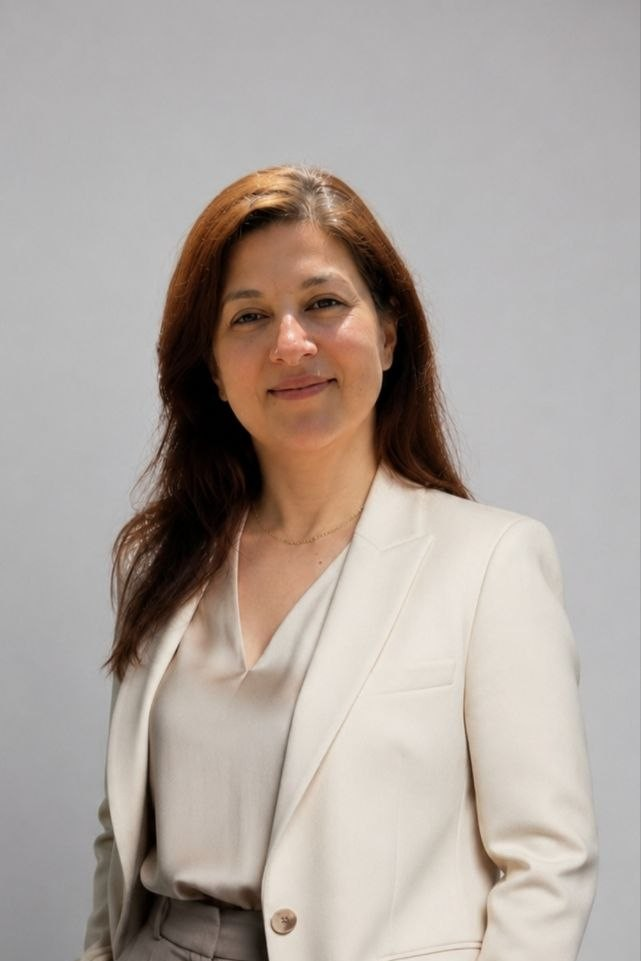
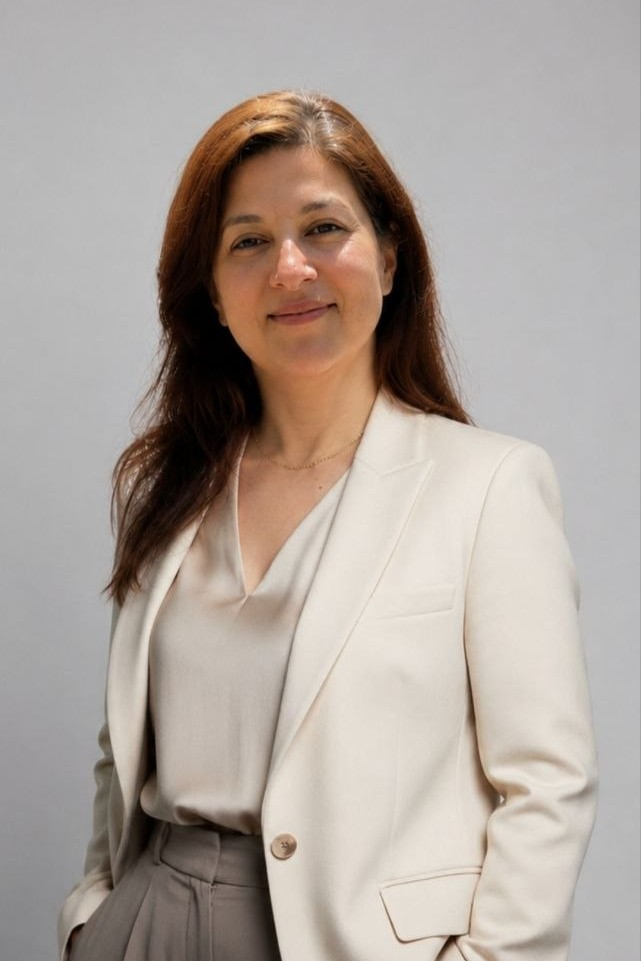
Fix SVG box sizing for residual income label and recrop hero photo

diff --git a/app/components/DeuxModeles.tsx b/app/components/DeuxModeles.tsx
@@ -73,10 +73,10 @@ export default function DeuxModeles({ t }: DeuxModelesProps) {
 
             <line x1="698" y1="173" x2="720" y2="173" stroke="#0F5C4A" strokeWidth="2" markerEnd="url(#arrE)"/>
 
-            <rect x="724" y="112" width="100" height="64" rx="3" fill="#0F5C4A"/>
-            <text x="774" y="142" textAnchor="middle" fontFamily="var(--font-playfair), Georgia, serif" fontSize="16" fill="#fff" letterSpacing="1">{t.constat.right.residualIncome}</text>
-            <text x="774" y="160" textAnchor="middle" fontFamily="var(--font-playfair), Georgia, serif" fontSize="16" fill="#fff" letterSpacing="1">{t.constat.right.freedom}</text>
-            <text x="774" y="174" textAnchor="middle" fontFamily="var(--font-montserrat), sans-serif" fontSize="9" fill="rgba(255,255,255,0.75)">{t.constat.right.rest}</text>
+            <rect x="724" y="108" width="100" height="72" rx="3" fill="#0F5C4A"/>
+            <text x="774" y="138" textAnchor="middle" fontFamily="var(--font-playfair), Georgia, serif" fontSize="15" fill="#fff" letterSpacing="1">{t.constat.right.residualIncome}</text>
+            <text x="774" y="156" textAnchor="middle" fontFamily="var(--font-playfair), Georgia, serif" fontSize="15" fill="#fff" letterSpacing="1">{t.constat.right.freedom}</text>
+            <text x="774" y="170" textAnchor="middle" fontFamily="var(--font-montserrat), sans-serif" fontSize="9" fill="rgba(255,255,255,0.75)">{t.constat.right.rest}</text>
 
             <line x1="480" y1="174" x2="722" y2="112" stroke="#0F5C4A" strokeWidth="1.5" strokeDasharray="5 3" markerEnd="url(#arrE)"/>
 

diff --git a/lib/translations.ts b/lib/translations.ts
@@ -213,8 +213,8 @@ const fr: Translation = {
     right: {
       sales: "VENTES",
       team: "ÉQUIPE",
-      residualIncome: "REVENU RÉSIDUEL",
-      freedom: "LIBERTÉ",
+      residualIncome: "REVENU",
+      freedom: "RÉSIDUEL",
       personal: "personnelles",
       recruitTrain: "recruter & former",
       rest: "même au repos",
@@ -447,8 +447,8 @@ const en: Translation = {
     right: {
       sales: "SALES",
       team: "TEAM",
-      residualIncome: "RESIDUAL INCOME",
-      freedom: "FREEDOM",
+      residualIncome: "RESIDUAL",
+      freedom: "INCOME",
       personal: "personal",
       recruitTrain: "recruit & train",
       rest: "even while you rest",